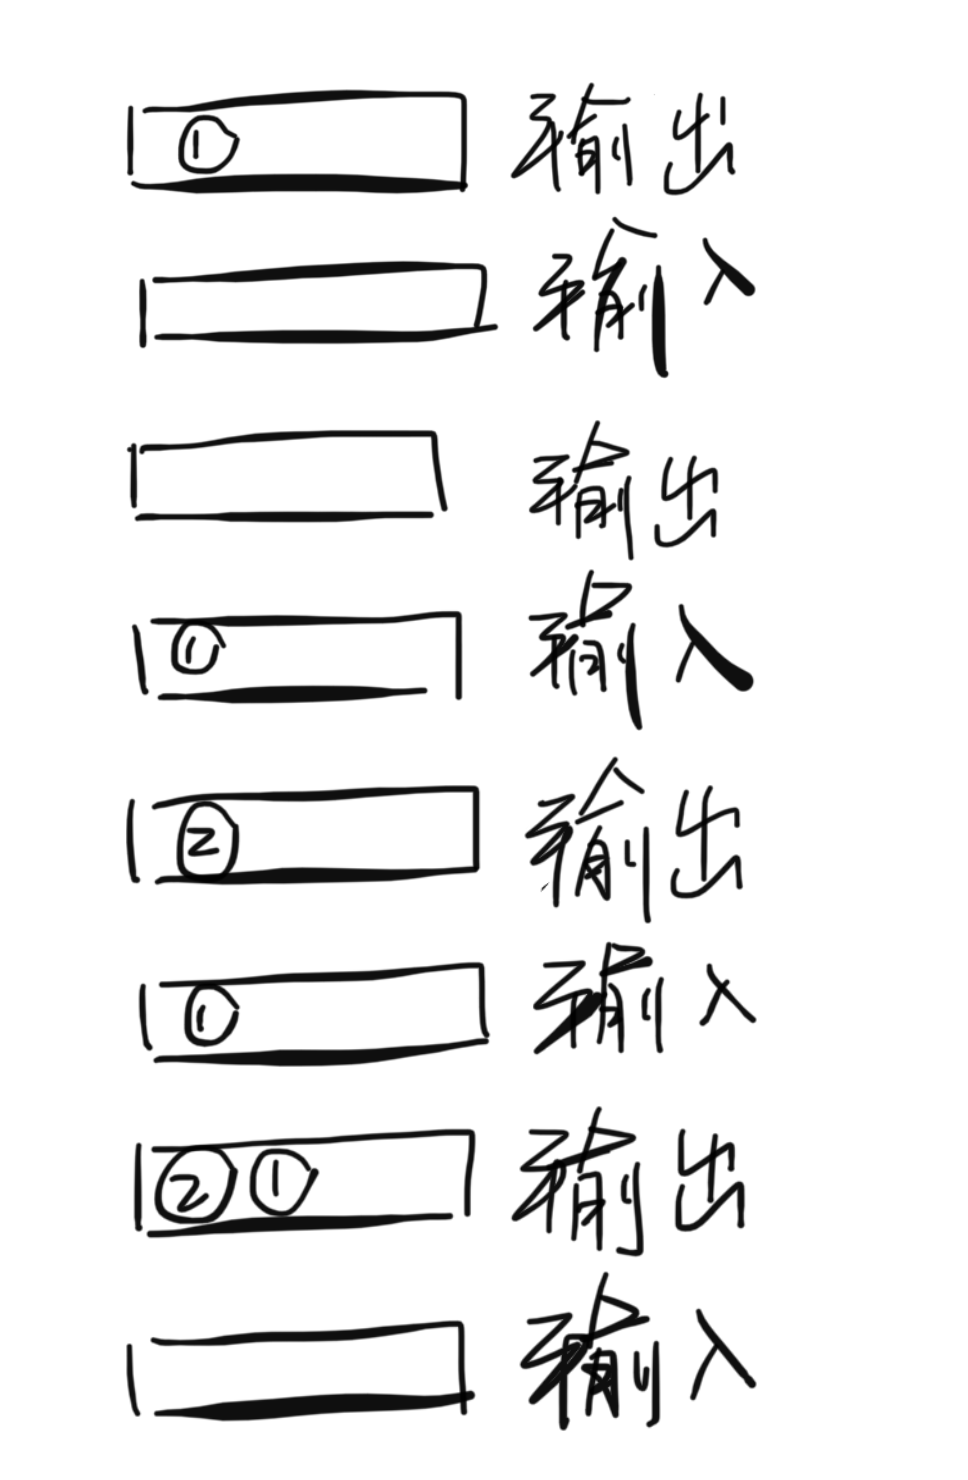
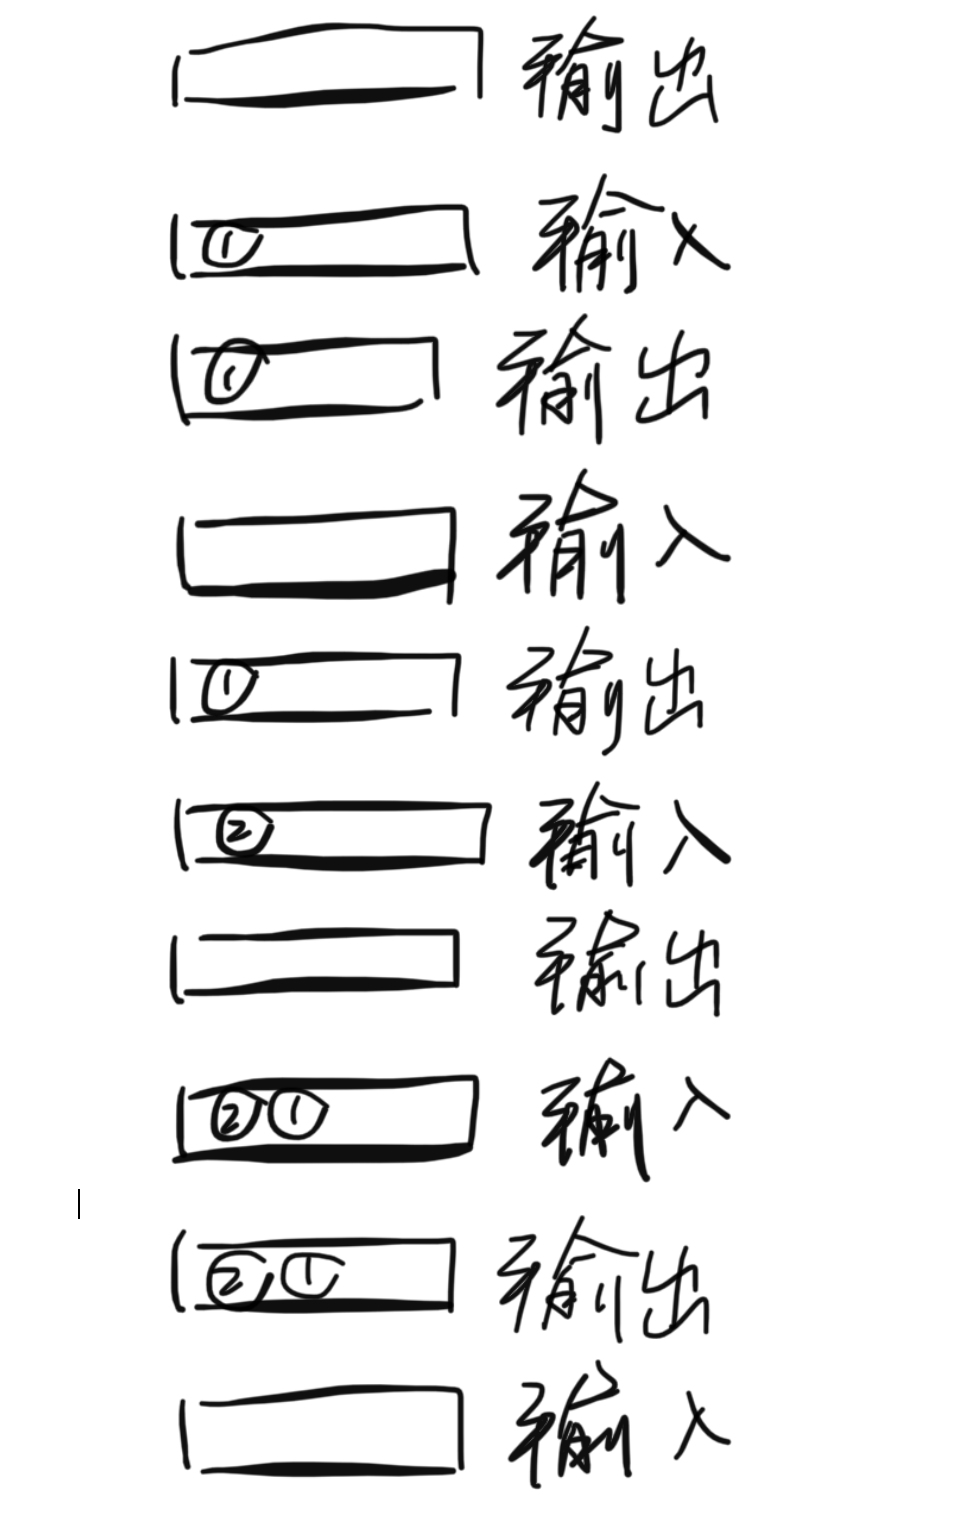
2021年6月7日第二次提交

Changed region(s): [[0.124, 0.0, 0.7748, 0.9946]]

diff --git a/栈和队列/225用队列实现栈.md b/栈和队列/225用队列实现栈.md
@@ -33,35 +33,37 @@ myStack.empty(); // 返回 False
 
 ```java
 class MyStack {
-    private Queue<Integer> a;//输入队列
-    private Queue<Integer> b;//输出队列
-  
+    private Queue<Integer> input;//输入队列
+    private Queue<Integer> output;//输出队列
+
     public MyStack() {
-      a = new LinkedList<>();
-      b = new LinkedList<>();
+        input = new LinkedList<>();
+        output = new LinkedList<>();
     }
-    
+
     public void push(int x) {
-        a.offer(x);
-        // 将b队列中元素全部转给a队列
-        while(!b.isEmpty())
-        a.offer(b.poll());
-        // 交换a和b,使得a队列没有在push()的时候始终为空队列
-        Queue temp = a;
-        a = b;
-        b = temp;
+        input.offer(x);
+        // 将输出队列中元素全部转给输入队列
+        while(!output.isEmpty())
+            input.offer(output.poll());
+        // 使用临时队列记录输入队列的元素
+        Queue temp = input;
+        // 交换输入队列和输出队列,使得输入队列没有在push()的时候始终为空队列
+        input = output;
+        // 将临时队列赋给输出队列，栈pop的时候使用输出队列进行出栈
+        output = temp;
     }
-    
+
     public int pop() {
-    	return b.poll();
+        return output.poll();
     }
-    
+
     public int top() {
-    	return b.peek();
+        return output.peek();
     }
-    
+
     public boolean empty() {
-    	return b.isEmpty();
+        return output.isEmpty();
     }
 }
 ```

diff --git a/README.md b/README.md
@@ -1,5 +1,5 @@
 # LeetCode-solution
-LeetCode刷题打卡—监督自己！
+LeetCode刷题打卡—监督自己！***不懂的代码Debug一遍***
 
 Day1:  2021年5月31日
 
